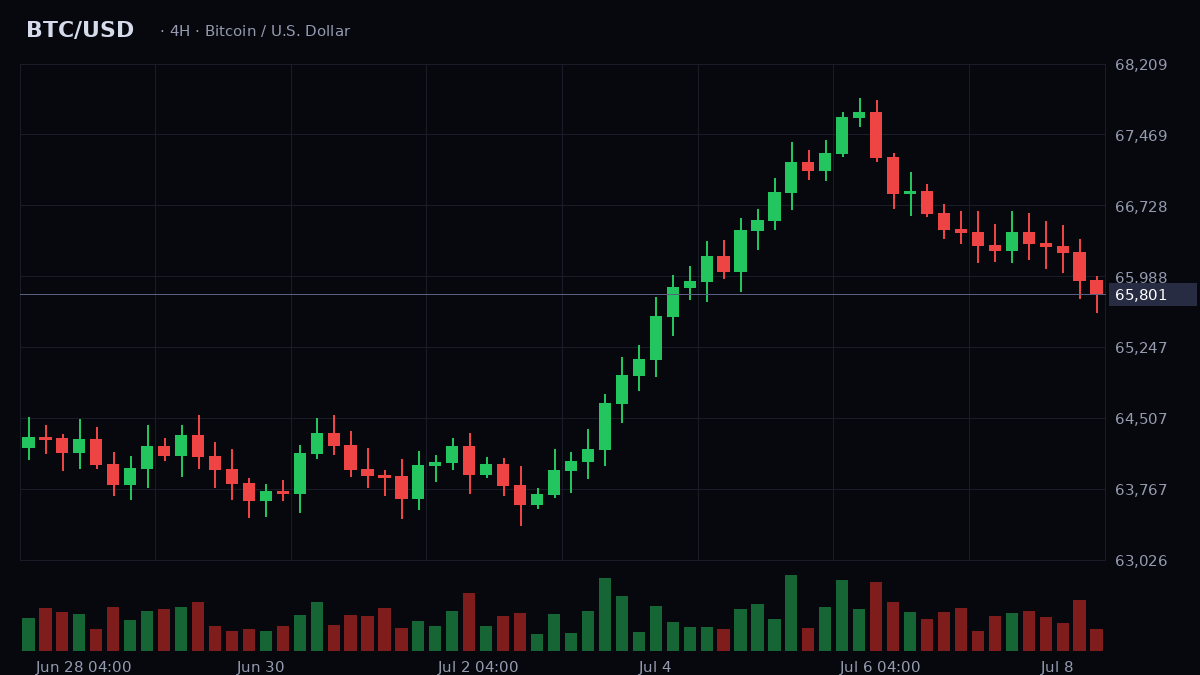
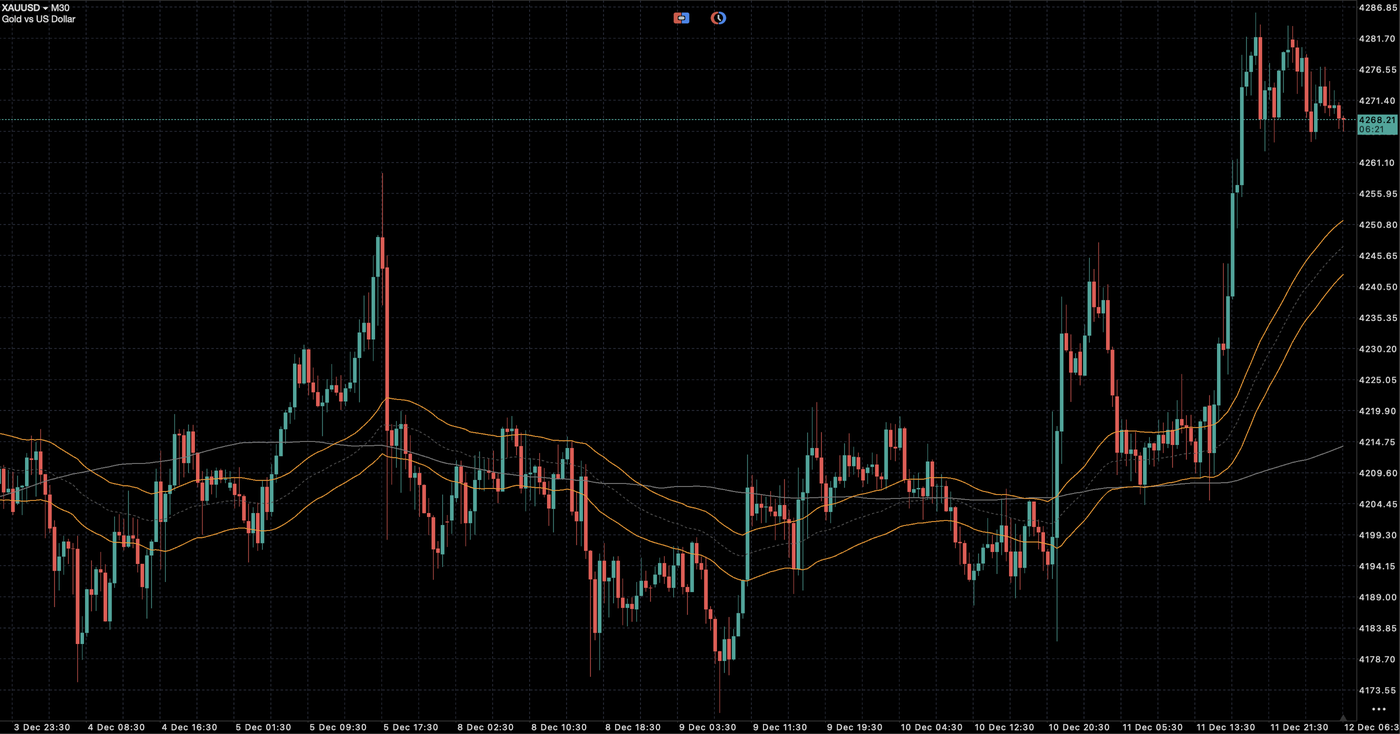
feat: real XAUUSD M30 chart as demo example

diff --git a/apps/frontend/src/components/pages/TryPage.tsx b/apps/frontend/src/components/pages/TryPage.tsx
@@ -254,7 +254,7 @@ const TryPage = () => {
             <div className="relative overflow-hidden rounded-xl border border-[var(--border-subtle)]">
               <img
                 src={customImage?.previewUrl ?? exampleChart}
-                alt={customImage ? 'Your chart' : 'Example chart: BTC/USD 4H'}
+                alt={customImage ? 'Your chart' : 'Example chart: XAUUSD (Gold) M30'}
                 className="w-full"
               />
               {customImage && state === 'ready' && (
@@ -282,7 +282,7 @@ const TryPage = () => {
             </div>
 
             <p className="mt-2 text-center text-xs text-[var(--text-secondary)]">
-              {customImage ? 'Your chart, ready to analyze.' : 'Example loaded: BTC/USD · 4H — or use your own below.'}
+              {customImage ? 'Your chart, ready to analyze.' : 'Example loaded: XAUUSD (Gold) · M30 — a real trader chart. Or use your own below.'}
             </p>
 
             {error && (
